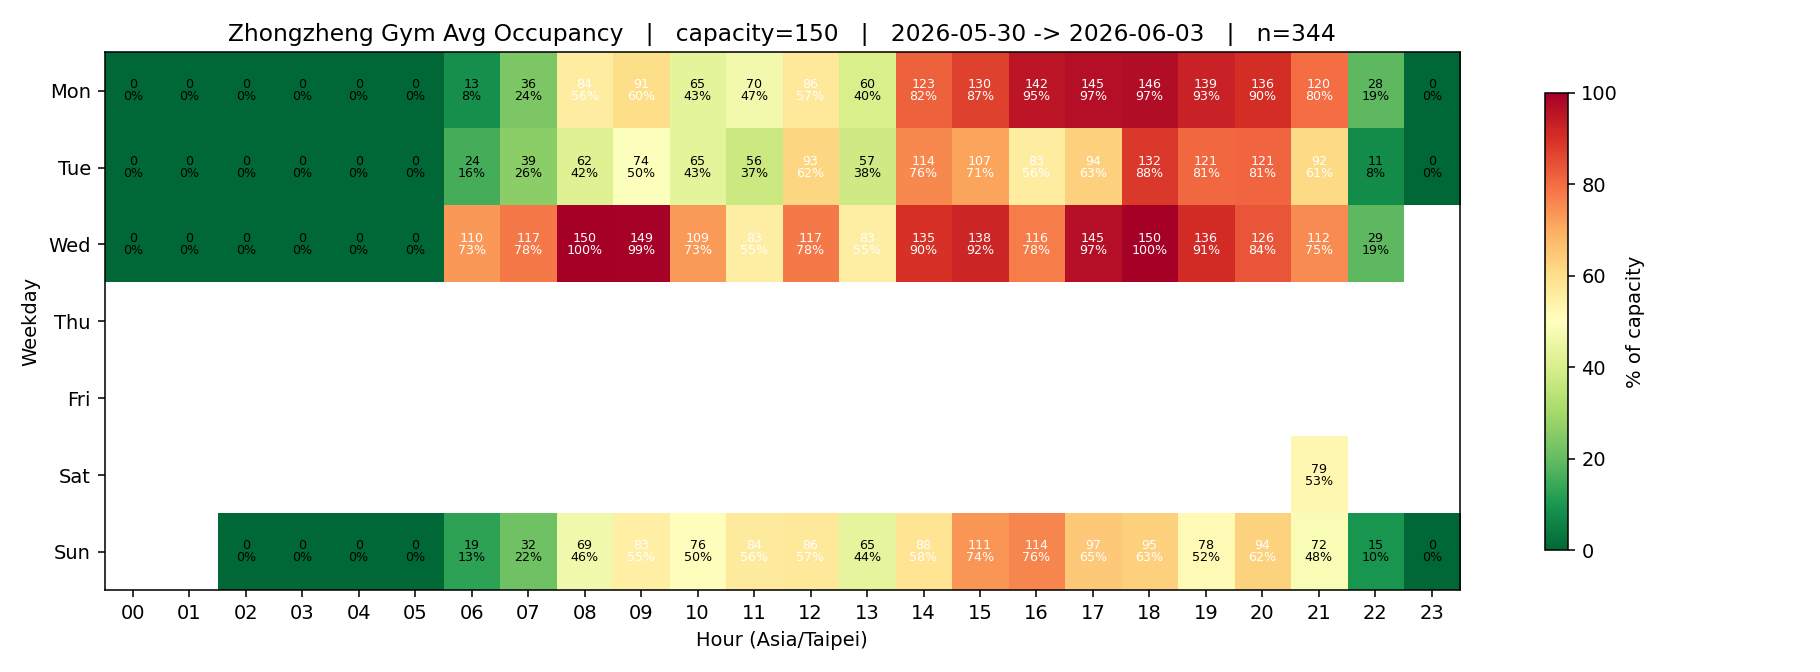
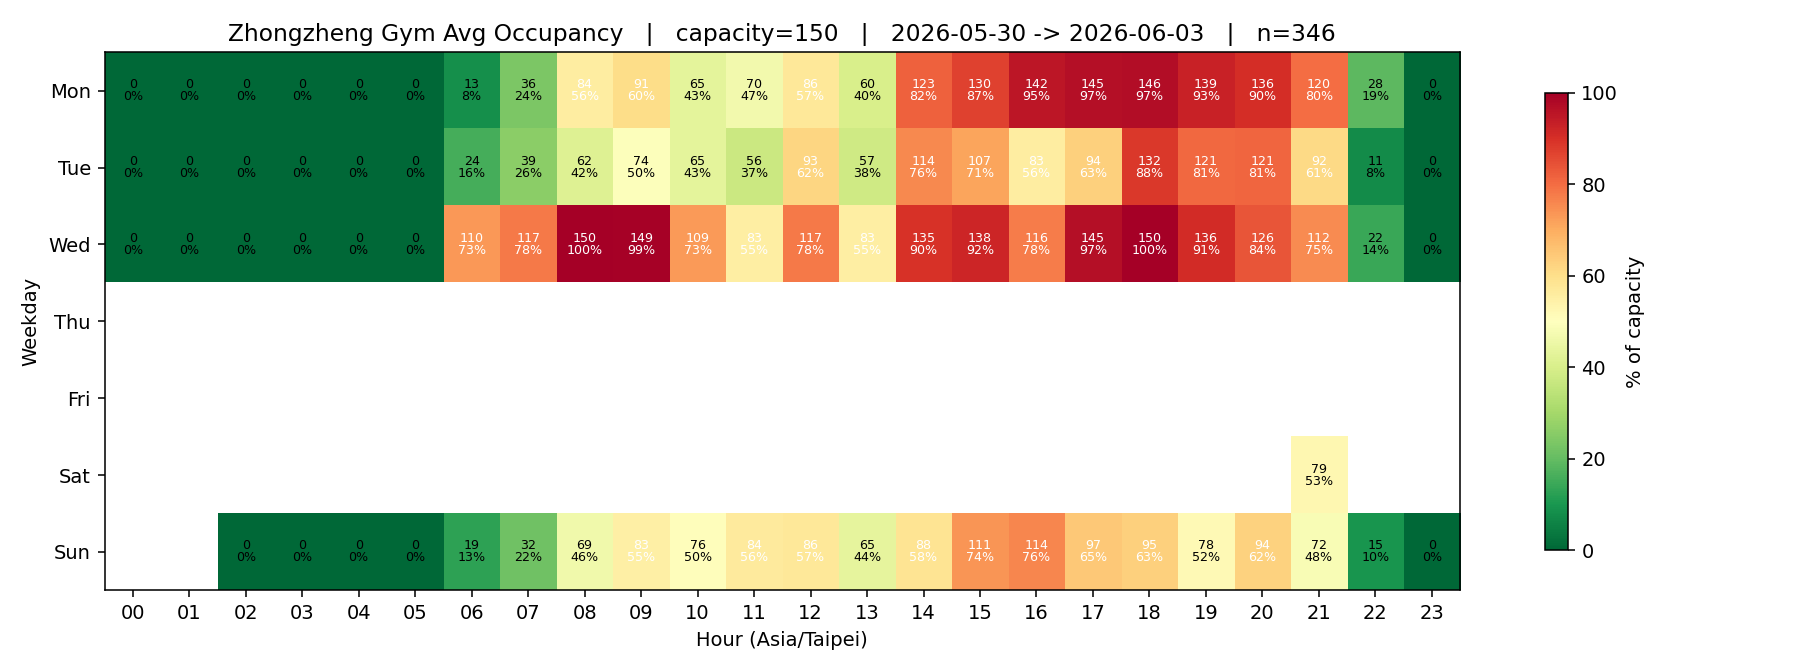
report: daily 2026-06-03

Changed region(s): [[0.7385, 0.2812, 0.8, 0.4375], [0.7077, 0.0312, 0.7385, 0.0625]]

diff --git a/reports/summary.md b/reports/summary.md
@@ -1,6 +1,6 @@
 # 中正運動中心健身房 報告
 
-資料區間: `2026-05-30 -> 2026-06-03`, 共 **344** 筆觀測，capacity = **150** 人
+資料區間: `2026-05-30 -> 2026-06-03`, 共 **346** 筆觀測，capacity = **150** 人
 
 ![heatmap](heatmap-latest.png)
 
